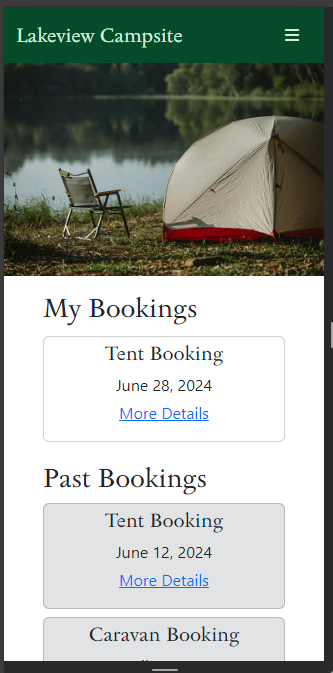
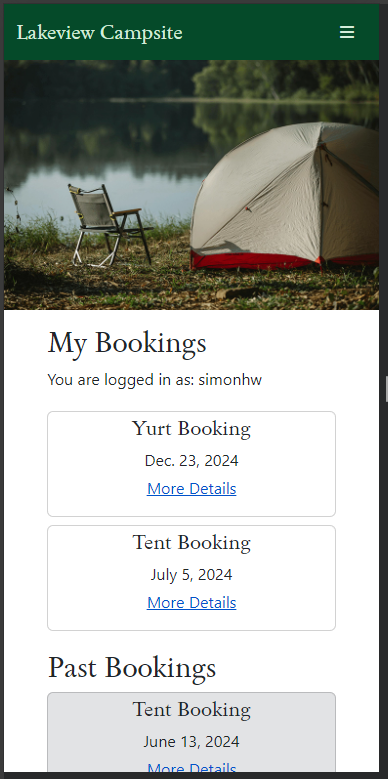
Docs: Spellcheck and proofread content of README.

diff --git a/README.md b/README.md
@@ -39,7 +39,6 @@ Deployed program on Heroku: [Lakeview Campsite](https://lakeview-campsite-8b683b
 - [Technologies Used](#technologies-used)
     - [Languages](#languages)
     - [Frameworks, Libraries, and Programs](#frameworks-libraries-and-programs)
-    - [Dependencies](#dependencies)
 - [Deployment](#deployment)
     - [Local Deployment](#local-deployment)
     - [Live Deployment](#live-deployment)
@@ -53,7 +52,7 @@ Deployed program on Heroku: [Lakeview Campsite](https://lakeview-campsite-8b683b
 
 ## User Experience
 ### Initial Discussion
-The Lakeview Campsite website facilitates bookings for small and large groups for one night or more of camping. The goal of the site is to encourage business by showcasing the campsite information and offering a user-friendly booking system to users. The website allows staff users to manage all bookings.
+The Lakeview Campsite website facilitates bookings for small and large groups for one night or more of camping. The goal of the site is to encourage business by showcasing the campsite information and offering a user-friendly booking system to users. The website allows users to manage their bookings and staff users to manage all bookings.
 
 ### Project Planning with the Agile Approach
 The Lakeview Campsite project was built using the Agile method. This involves breaking projects down into smaller manageable sections which allows teams to deliver continuous working releases to the client and end users. These release periods are known as sprints and this project had four sprints over nine weeks.
@@ -70,10 +69,10 @@ User Stories were generated and grouped under different Epics to effectively str
 Each user story was assigned a number of labels to aid in the project workflow. These include:
 
 - `Sprint 1/2/3/4` - To denote in which sprint the user story will be worked on.
-- `Story Points: 1/2/3/5/8` - To denote how much effort each user story requires.
+- `Story Points: 1/2/3` - To denote how much effort each user story requires.
 - `Must-Have` - A user story relating to a feature without which the website will not function correctly.
 - `Should-Have` - A user story relating to a feature that will complement the core website features and enhance the user experience.
-- `Could-Have` - A user story relating to a feature that be of benefit to the user but without which the site will still achieve all its design goals.
+- `Could-Have` - A user story relating to a feature that could be of benefit to the user but without which the site will still achieve all its design goals.
 - `Site User` - A user story from the perspective of a regular site user.
 - `Site Admin` - A user story from the perspective of a site administrator.
 - `documentation` - A task related to writing the README or TESTING documents.
@@ -84,20 +83,20 @@ Using the Agile method allowed this project to be managed well in small chunks. 
 
 ### User Stories
 #### Epic: Initial Project Setup
-- **Set Up Django Files**: As a **Developer** I can **set up the Django template files** so that **I can begin to write code for the project**.
+- **Set Up Django Files**: As a **Developer** I can **set up the Django template files** so that I can **begin to write code for the project**.
     - I can install the correct version of Django.
     - I can create a project called **lakeview**.
     - I can create an app called **home**.
     - I can display a "Hello world!" string on the webpage.
 
-- **Create PostgreSQL Database**: As a **Developer** I can **create a could-based database** so that **store and retrieve data for my website**.
+- **Create PostgreSQL Database**: As a **Developer** I can **create a could-based database** so that I can **store and retrieve data for my website**.
     - I can create a new PostgreSQL instance
     - I can copy the URL in the Details section
     - I can create the env.py file and set DATABASE_URL constant.
     - I can install the relevant packages for database connection.
     - I can run migrations.
 
-- **Deploy Project to Heroku**: As a **Developer** I can **deploy the project to Heroku** so that **I can see that the website displays properly**.
+- **Deploy Project to Heroku**: As a **Developer** I can **deploy the project to Heroku** so that I can **see that the website displays properly**.
     - I can create a Heroku app with a unique name.
     - I can update the code for deployment with gunicorn.
     - I can deploy the app on Heroku.
@@ -115,14 +114,14 @@ Using the Agile method allowed this project to be managed well in small chunks. 
     - I can declare the necessary imports.
     - I can create a model with the appropriate fields required.
 
-- **Move Booking Model to the Correct App**: As a **Developer** I can **successfully migrate a model from one app to another** so that I can **have all the relevant code for a desired action contained in one app**.
+- **Move Booking Model to the Correct App**: As a **Developer** I can **successfully migrate a model from one app to another** so that I can **have all the relevant code for a desired site function contained in one app**.
     - I can create the new model in the correct app.
-    - I can change all the references from old model to the new model in other files.
+    - I can change all the references from the old model to the new model in other files.
     - I can run migrations and check for any errors.
     - I can delete the old model once the Heroku app is verified to be working properly.
 
 #### Epic: User Accounts
-- **Create an Account**: As a **Site User** I can **create an account** so that **I can make bookings and leave reviews**.
+- **Create an Account**: As a **Site User** I can **create an account** so that I can **make bookings and leave reviews**.
     - When I click the sign-in button, I am prompted to make an account.
     - After registering my details, I can log in and view, create, update, or delete a booking.
     - I can log out and log back in using the password I created.
@@ -135,7 +134,7 @@ Using the Agile method allowed this project to be managed well in small chunks. 
     - I can create a header and nav bar for larger screens.
     - I can create a footer for larger screens.
 
-- **View Campsite Information**: As a **Site User** I can **view information about the campsite** so that **I can make an informed decision about making a booking**.
+- **View Campsite Information**: As a **Site User** I can **view information about the campsite** so that I can **make an informed decision about making a booking**.
     - When I visit the About page, I can read the campsite information.
     - I can view the location of the campsite.
     - I can view the size of the campsite.
@@ -164,13 +163,13 @@ Using the Agile method allowed this project to be managed well in small chunks. 
     - When editing booking details, I can change any details they wish and save the changes.
     - If the booking is less than 48 hours away, I cannot edit the booking and I am instead prompted to ring the campsite for further instruction.
 
-- **Delete a Booking**: As a **Site User** I can **cancel a booking** so that **I can manage my stay at the campsite**.
+- **Delete a Booking**: As a **Site User** I can **cancel a booking** so that I can **manage my stay at the campsite**.
     - I can navigate to my bookings page and cancel a booking.
     - If the booking is less than 48 hours away, I will not have the option to cancel and will be prompted to ring the campsite for further advice.
     - Otherwise, a modal prompt will ask me to confirm this irreversible action.
     - On successful deletion, a confirmation message will be displayed to me.
 
-- **View All Bookings**: As a **Site Admin** I can **view all bookings** so that **I can understand when people will use the campsite**.
+- **Manage All Bookings**: As a **Site Admin** I can **view and manage all bookings** so that I can **understand when and have control over how customers will use the campsite**.
     - I can view a list of all bookings and their details.
     - For a given booking, I can amend or delete it.
     - For a booking in the past, I cannot amend or delete it.
@@ -182,13 +181,13 @@ Using the Agile method allowed this project to be managed well in small chunks. 
 - As a **Developer** I can **write a README and TESTING file** so that **others can learn about my app and see the work that has gone into preparing it for final release**.
 
 ### Kanban Board
-The GitHub Projects tool was used to manage development progress for this website. The kanban board was used to separate tasks into four columns:
+The GitHub Projects tool was used to manage development progress for this website. A kanban board was used to separate tasks into four columns:
 - Todo
 - In Progress
 - Done
 - Future Features
 
-The Epics and labels discussed above were used in conjunction with the board and allowed the developer to manage their time well during development. Below is a screenshot of the final state of the kanban board. The project can be viewed on the [GitHub Projects](https://github.com/users/simonhw/projects/3/) page.
+The Epics and labels discussed above were used in conjunction with the board and allowed the developer to manage their time well during development. Below is a screenshot of the final state of the kanban board. The project can be viewed on its [GitHub Projects page](https://github.com/users/simonhw/projects/3/).
 
 ![Image of Kanban Board](static/images/readme/kanban-final.png)
 
@@ -207,9 +206,9 @@ The Sedan font was chosen from the Google Fonts library because it evoked feelin
 ### Imagery
 Images were chosen that show an attractive campsite and surroundings. Bright images showing tents near a lake and other forms of accommodation were selected to give a sense of an inclusive type of campsite. Images of people helping each other set up a tent were used for the "Need a Hand?" part of the About page. A beautiful drone/helicopter shot of a lake shore with a green landscape and mountains in the background was used in the index and About page to entice site users wishing to escape into nature for a relaxing holiday. 
 
-The header image for smaller screens was either a tent and chair by the lake's edge or a closeup of books, a mug, and flask, and a camera on the floor of a tent. The latter was used mainly for account pages and the Manage Bookings page to reflect their administrative nature. A wider image of the chair and tent was used for larger screens to make good use of the extra horizontal space.
+The header image for smaller screens was either a tent and/or chair by the lake's edge or a closeup of books, a mug, a flask, and a camera on the floor of a tent. The latter was used mainly for account pages and the Manage Bookings page to reflect their administrative nature. A wider image of the chair and tent was used for larger screens to make good use of the extra horizontal space.
 
-For the 404, 403, and 500 error pages, two different images were used. For the 403 page, an image of a diamond mesh fence was used to convey the sense of forbidden access. For the 404 and 500 error pages, an image of a worried man looking at his phone in the woods was used, to give the sense of being lost or something having gone wrong.
+For the 404, 403, and 500 error pages, two different images were used. For the 403 page, an image of a diamond mesh fence was used to convey the sense of forbidden access. For the 404 and 500 error pages, an image of a worried man looking at his phone in the woods was used to give the sense of being lost or something having gone wrong.
 
 ### Wireframes
 Wireframes were created in Balsamiq for the initial front-end design of the website. The mobile layout was designed first and the tablet and desktop were adapted from this.
@@ -267,7 +266,7 @@ A key requirement for this project was for users to be able to create, read, upd
 * Admin users may **delete** by cancelling user bookings.
 
 ### Responsiveness
-- On small screen sizes, namely mobiles, the website is displayed with content taking up most of the horizontal space, using a Bootstrap column width of 10 with an offset of 1. This allows for most of the screen to be utilised while still being visually appealing with a buffer of empty space on either side. Images used in the header were sized appropriately for the screen size to improve loading time. For larger screens, wider images were displayed while the smaller images were hidden. The navbar links are displayed in a dropdown menu typical of mobile websites which keeps the header looking neat and tidy on small screens.
+- On small screen sizes, namely mobiles, the website is displayed with content taking up most of the horizontal space, using a Bootstrap column width of 10 with an offset of 1. This allows for most of the screen to be utilised while still being visually appealing with a buffer of empty space on either side. Images used in the header were sized appropriately for the screen size to improve loading time. For larger screens, wider images were displayed while the smaller images were hidden. The navbar links are displayed in a dropdown menu typical of mobile websites which keeps the header looking neat on small screens.
 
     <details><summary>Comparison of nav bar on small and large screens</summary>
 
@@ -307,7 +306,7 @@ A key requirement for this project was for users to be able to create, read, upd
 
     </details><br>
 
-- On large screen sizes, content is generally displayed in Bootstrap columns of width 6 with an offset of 3 to direct the user's attention to the middle of their screen and avoid using the extreme edges of these wider displays. The booking form and booking cards are displayed more tightly in Bootstrap columns of 4 with an offset of 4, as this content is by nature more narrow. The Sign Out page content is centre-aligned for medium-sized screens and up so that it looks visually appealing on larger screens.
+- On large screen sizes, content is generally displayed in Bootstrap columns of width 6 with an offset of 3 to direct the user's attention to the middle of their screen and avoid using the extreme edges of these wider displays. The booking form and booking cards are displayed more tightly in Bootstrap columns of 4 with an offset of 4, as this content is by nature more narrow. The Sign Out page content is centre-aligned for medium-sized screens as it looked out of place when left-aligned in its parent div at these screen sizes.
 
     <details><summary>Booking cards on desktop screens</summary>
 
@@ -324,7 +323,7 @@ A key requirement for this project was for users to be able to create, read, upd
 
 ## Features
 The website was designed to be as simple as possible, with little to no distracting content. A mobile-first design process was undertaken from the start.
-The website is comprised of four main pages visible to the site user: a homepage, an about page, a booking form page, and a "my bookings" page (when logged in). An additional page is also visible to staff users once logged in where they can manage all bookings. Other pages visible to users include the signup page, login page, logout page, password reset page, 404 error page, 403 error page, and 500 error page.
+The website is comprised of four main pages visible to the site user: a homepage, an about page, a booking form page, and a "my bookings" page (when logged in). An additional page is also visible to staff users once logged in where they can manage all bookings. Other pages visible to users include the signup page, login page, logout page, 404 error page, 403 error page, and 500 error page.
 
 **All pages on the website have:**
 1. A favicon of a tent next to a tree with a cloud.
@@ -337,7 +336,7 @@ The website is comprised of four main pages visible to the site user: a homepage
 
     ![Website Header](static/images/readme/header-dd.png)
 
-    The header contains links to the main pages of the website, depending on the login status of the site user. 
+    The header contains links to the main pages of the website, depending on the authentication status of the site user. 
     - The website title "Lakeview Campsite" is a link which when clicked will return the user to the `index.html` page.
     - "About" brings the user to the `about.html` page.
     - "Book Now" brings the user to the `bookings.html` page.
@@ -403,21 +402,21 @@ New users who wish to make a booking must create an account to access this featu
 ![Signup Page](static/images/readme/signup-1.png)
 ![Signup Page](static/images/readme/signup-2.png)
 
-This is a default Django signup form that is provided with the framework; however, the template was amended to have a consistent style with the rest of the website and extend the custom `base.html` page.
+This is a default Django signup form that is provided with the framework; however, the template was amended to have a consistent style with the rest of the website and extends the custom `base.html` page.
 
 Upon successful account creation, a message is shown to the user confirming the action and they are returned to the previous page they were viewing.
 
 ![Signup toast message](static/images/readme/signup-toast.png)
 
 ### The Sign In Page
-The sign-in page similarly is a default Django form that has had its template styled to be consistent with the website. When returning users sign in successfully, they are shown a message to confirm their action and they are returned to the previous page they were viewing. There is also a reset password link on this page which is further discussed below.
+The sign-in page similarly is a default Django form that has had its template styled to be consistent with the website. When returning users sign in successfully, they are shown a message to confirm their action and they are returned to the previous page they were viewing. There are also instruction on how the user can reset their password on this page which is further discussed below in the [Features to be Implemented](#features-to-be-implemented) section.
 
 ![Signin Page](static/images/readme/signin.png)
 
 ![Signin toast message](static/images/readme/signin-toast.png)
 
 ### The Sign Out Page
-When users click the sign-out button in the nav bar they are directed to the `signout.html` page. Users must confirm the action by clicking the red "Sign Out" button after which they are redirected to the homepage. This is different from the previous two pages because the user could be signing out from a page that required specific authenticated access. Instead of showing the user a 403 error page, it was deemed a much better user experience to simply be returned to the homepage. A "Cancel" button allows the user to navigate back to the previous page without having to use their browser.
+When users click the sign-out button in the nav bar they are directed to the `signout.html` page. Users must confirm the action by clicking the red "Sign Out" button after which they are redirected to the homepage. This is different from the previous two pages because the user could be signing out from a page that required specific authenticated access. Instead of showing the user a 403 error page or being redirected immediately to the sign-in page, it was deemed a much better user experience to simply be returned to the homepage. A "Cancel" button allows the user to navigate back to the previous page without having to use their browser.
 
 ![Sign out page](static/images/readme/signout.png)
 
@@ -434,7 +433,7 @@ The authenticated user's username is displayed under the page's heading as a vis
 
 #### Form Fields
 - Accommodation
-    - A dropdown list of four types of accommodation is presented to the user for selection
+    - A dropdown list of four types of accommodation is presented to the user for selection.
         
         ![Accommodation dropdown list](static/images/readme/accom-dd.png)
         
@@ -443,17 +442,17 @@ The authenticated user's username is displayed under the page's heading as a vis
 
         ![Arrival date picker](static/images/readme/arrival-pick.gif)
     
-    - The minimum value for the departure date will always be the arrival date plus one day. This was achieved using custom JavaScript code explained further below.
+    - The minimum value for the departure date will always be the arrival date plus one day. This was achieved using custom JavaScript code explained in [TESTING.md](/TESTING.md).
 
         ![Departure date picker](static/images/readme/departure-picker.png)
         ![Departure date picker](static/images/readme/departure-picker-3.png)
         ![Departure date picker](static/images/readme/departure-picker-4.png)
 
 - Number of Guests
-    - The next form fields are those for the number of adults and children in the booking. These fields only accept non-negative integers; the adults field has a minimum value of one and the children field has a minimum value of zero. The maximum number of guests of either type is set to 10, to prevent the user from booking in impossibly large guest numbers. See [Features to be Implemented](#features-to-be-implemented) for more on this.
+    - The next form fields are those for the number of adults and children in the booking. These fields only accept non-negative integers; the adults field has a minimum value of one and the children field has a minimum value of zero. The maximum number of guests of either type is set to 10, to prevent the user from making a booking with impossibly large guest numbers. See [Features to be Implemented](#features-to-be-implemented) for future idea on this limitation.
 
 - Terms and Conditions
-    - The final form field is a radio button with which the user can indicate that they have accepted the Terms and Conditions listed below.
+    - The final form field is a radio button with which the user can indicate that they have accepted the Terms and Conditions listed below the form.
 
         ![Terms and Conditions radio button](static/images/readme/tac-radio.png)
 
@@ -471,7 +470,6 @@ After submission, the input data is cleared and the form is restored to its defa
 Below the form section, with a distinct white-on-green style to distinguish it from the booking form, the main points of information for making a booking are presented to the site user. These items are shown here to address the more frequently asked questions about bookings: check-in time, payments, and cancellations. The contact details for the campsite are listed here and the user is encouraged to get in touch regarding any special requests or specific questions.
 
 ![Booking information section](static/images/readme/booking-info.png)
-![Booking information section](static/images/readme/booking-info-2.png)
 
 #### Terms and Conditions
 A Bootstrap collapse component is utilised for the long list of Terms and Conditions to keep the booking page looking neat and avoid having to scroll too much to view the footer details. The user can choose to view the full list by clicking on the link as prompted.
@@ -485,7 +483,7 @@ As the list is long, another link is provided after the last list item to hide t
 ![Terms and Conditions hide link](static/images/readme/tac-hide.png)
 
 ### User Bookings
-As described above, a given logged-in user who is not a staff member may navigate to the `user_bookings.html` page and view a list of campsite bookings made by them.
+As described above, a given logged-in user who is not a staff member may navigate to the `user_bookings.html` page and view a list of campsite bookings made by them. The authenticated user's username is displayed under the "My Bookings" heading as a visual indication that they are logged in and to show under which account they are viewing bookings.
 
 ![User Bookings page](static/images/readme/my-bookings.png)
 
@@ -496,15 +494,15 @@ The bookings are separated into two sections: "My Bookings" and "Past Bookings".
 This content shows all the details that the user would have entered when making a booking: arrival date, departure date, and number of guests. When no children were booked in, this field is omitted entirely from the card.
 
 #### Editing Bookings
-The user can edit or delete bookings up until two days before the arrival date. When the edit button is clicked, the user is brought back to the booking form page. Through the use of template tags, the page checks if a booking id exists. In this case, it does as the user has clicked on the "Edit" button, calling the `booking_edit` view which populates the form with the correct data. The heading is thus changed to read "Edit Your Stay" and the submit button text is changed to "Update". This is a way of making sure the user is aware that they are editing an existing booking as opposed to making a new one.
+The user can edit or delete bookings up to two days before the arrival date. When the edit button is clicked, the user is brought back to the booking form page. Through the use of template tags, the page checks if a booking id exists. In this case it does, as the user has clicked on the "Edit" button, calling the `booking_edit` view which populates the form with the correct data. The heading is thus changed to read "Edit Your Stay" and the submit button text is changed to "Update". This is a way of making sure the user is aware that they are editing an existing booking as opposed to making a new one.
 
 ![Edit Your Stay page](static/images/readme/edit-booking.png)
 
-If the new data is valid, the user is shown a message confirming their action and is redirected to the `user_bookings.html` page.
+If the new data is valid, the user is shown a message confirming their action and is redirected to the `user_bookings.html` page. If it is not, the form does not submit and any validation errors are displayed to the user in a message.
 
 ![Edit booking toast message](static/images/readme/edit-booking-toast.png)
 
-If the booking arrival date is within the next 48 hours, the user is not able to amend the details and a modal message is displayed informing the user of this and prompting them to get in contact with the campsite staff. A modal was chosen for this feature as it forces the user to acknowledge the message and click a button labelled "Understood" before they can interact with the website again. The campsite contact phone number is linked here for the user's convenience.
+If the booking arrival date is within the next 48 hours, the user is not able to amend the details unless they are also a staff member. A modal message is displayed informing the user of this and prompts them to get in contact with the campsite staff. A modal was chosen for this feature as it forces the user to acknowledge the message and click a button labelled "Understood" before they can interact with the website again. The campsite contact phone number is linked here for the user's convenience. The email address was not included here as the campsite owners want to encourage the user to get in touch directly and deal with any issues as soon as possible.
 
 ![Edit booking denied modal](static/images/readme/edit-denied.png)
 
@@ -523,7 +521,7 @@ If the booking is successfully deleted, the user is shown a message confirming t
 
 ![Delete booking toast message](static/images/readme/delete-toast.png)
 
-As with the edit action described above, if the booking is in the next 48 hours another [modal](static/images/readme/delete-denied.png) is shown to the user explaining that it is not possible to delete the booking and action does not take place.
+As with the edit action described above, if the booking is in the next 48 hours another [modal](static/images/readme/delete-denied.png) is shown to the user explaining that it is not possible to delete the booking and action does not take place. Staff accounts do not have this limitation.
 
 #### Past Bookings
 A list of past bookings is also shown to the user on this page for ease of reference. When the "More Details" link is clicked, the details for the chosen past booking are displayed. The wording here is slightly different with the past tense of "Arrived" and "Departed" used. No edit or delete functionality is possible with these bookings.
@@ -536,7 +534,7 @@ If the user has no bookings associated with their account, paragraphs are displa
 ![No bookings paragraphs](static/images/readme/no-bookings.png)
 
 ### Managing Bookings
-For a staff user, all bookings can be managed by navigating to the `manage_bookings.html` page. Here a list of all bookings is displayed, with the booking card having a slightly different format to that seen in the `user_bookings.html` page. Each booking card has the user's name or username displayed at the top and all relevant booking details are listed below it. The same options of editing and deleting bookings are afforded to the staff user here, but the wording is changed from "Edit" to "Manage". There is currently no functionality implemented for a user to edit their account details and add their first and last names; when this is the case, their username is displayed on the card instead of their first and last name. The staff user is also not limited when choosing to manage or delete a booking that is within 48 hours.
+For a staff user, all bookings can be managed by navigating to the `manage_bookings.html` page. Here a list of all bookings is displayed along with the login status of the user, with the booking card having a slightly different format to that seen in the `user_bookings.html` page. Each booking card has the user's name or username displayed at the top and all relevant booking details are listed below it. The same options of editing and deleting bookings are afforded to the staff user here, but the wording is changed from "Edit" to "Manage". There is currently no functionality implemented for a user to edit their account details and add their first and last names; in these cases, their username is displayed on the card instead of their first and last name. There are no limitations on managing or deleting bookings within the next 48 hours for the staff user on this page.
 
 ![Manage bookings page](static/images/readme/manage-bookings.png)
 ![Manage bookings page](static/images/readme/manage-bookings-2.png)
@@ -566,10 +564,10 @@ This project has many possible features that are beyond the scope of the current
 - **Booking Images**
     - When a user selects an accommodation option in the booking form, an image of that type of accommodation is shown adjacent to the field. This would be achieved using JavaScript and adding an event listener that changes the image when the accommodation field is changed.
 - **Occupancy Limits**
-    - Limiting the number of guests per day and accomodation type would be a much sought-after feature for a client. Not all campsites would have the same sized facilities or staff support. Ideally, the user would be shown how many spaces are left for each accommodation type when they select their preferred booking dates. This could involve using a "Check Availability" button which calls a custom method that returns the number of open accommodation spaces available to the user. This would also require updating or creating new models that can hold the occupancy limits for various accommodations and services offered by the business.
-    - Currently, there is a maximum value of 10 guests set for the adults and children input fields. This is to prevent unreasonable booking in the website's current version. An intermediate step to improve this would be to show the user a modal window asking them to get in touch to discuss their booking if they wish to make a booking of more than 10 guests.
+    - Limiting the number of guests per day and accommodation type would be a much sought-after feature for a client. Not all campsites would have the same sized facilities or staff support. Ideally, the user would be shown how many spaces are left for each accommodation type when they select their preferred booking dates. This could involve using a "Check Availability" button which calls a custom method that returns the number of open accommodation spaces available to the user. This would also require updating or creating new models that can hold the occupancy limits for various accommodations and services offered by the business.
+    - Currently, there is a maximum value of 10 guests set for the adults and children input fields. This is to prevent unreasonabley-sized or malicious booking attempts in the website's current version. An intermediate step to improve this would be to show the user a modal window asking them to get in touch to discuss their booking if they wish to make a booking of more than 10 guests.
 - **Date Picker**
-    - Having a date field that shows a calendar indicating booking availability would improve the current user experience. A JavaScript library such as [flatpickr](https://flatpickr.js.org/) would be one way of implementing this feature. Writing custom JavaScript to pass available dates to flatpickr would allow it to configure the choices available to the user.
+    - Having a date field that shows a calendar indicating booking availability would improve the current user experience. Visually this would look like a calendar displayed one month at a time, with dates where bookings are not possible grayed out, dates where bookings are almost booked out in orange, and dates where there are plenty of booking slots available displayed in blue or green. A JavaScript library such as [flatpickr](https://flatpickr.js.org/) would be one way of implementing this feature. Writing custom JavaScript to pass available dates to flatpickr would allow it to configure the choices available to the user.
 - **Extra Products**
     - The extra services and packages described in the "Pricing Guide" section of `about.html` could be presented to the user as additional items they can purchase at the point of booking. This would involve updating the booking model with new fields and updating the booking form.
 - **Pricing**
@@ -581,6 +579,13 @@ This project has many possible features that are beyond the scope of the current
 - **Accepting T&Cs**
     - The Terms and Conditions are currently listed below the booking form, and the user is told that by making a booking they are accepting these terms; however, it would be better to have a checkbox that the user must click to indicate that they have read the Terms and Conditions before they can submit their booking.
 
+#### View Bookings Page
+- **Page Headings**
+    - The `UserBookings` class-based view can be split into two new views: one for upcoming bookings and one for past bookings. In this way the headings of "Upcoming Bookings" and "Past Bookings" on the page can be dynamically shown or hidden and messages displayed when the user has no bookings of either or both types. ([See Known Bug #2](/TESTING.md#known-bugs))
+
+- **Cancellation Period**
+    - The `.is_within_48h()` method can be updated to take in an argument from the user where the number of days or hours can be determined by the staff user from the front end. This update would also includes functions that dynamically edit any text content that refers to the cancellation period in other areas of the site.
+
 #### Manage Bookings Page
 - **Sort Bookings**
     - In this release, all bookings are listed and sorted by arrival date in descending order; however, in a real-world application, there could be hundreds of bookings available to view to the staff user. It would be preferable to have more control over how to sort the bookings list, e.g. view by month or by accommodation type. This may involve creating new classes in `booking/views.py` and having different buttons that the staff user can click to sort the bookings in different ways.
@@ -589,7 +594,7 @@ This project has many possible features that are beyond the scope of the current
 - **Email Functionality**
     - Integrating an email service with the website will allow users to reset their password, to be sent details of their bookings, and to receive other important messages, e.g. reminders before their arrival.
 - **Custom Sign Up Form**
-    - The sign-up form can be improved both in its formatting and content. It would be preferable to have the user enter their first and last name upon signup. The current labels and fields can display inconsistently (see [Bug #1](/TESTING.md#bugs)) and it would give a better user experience to have the sign-up form look consistent across all screen sizes.
+    - The sign-up form can be improved both in its formatting and content. It would be preferable to have the user enter their first and last name upon signup. The current labels and fields can display inconsistently (see [Known Bug #1](/TESTING.md#known-bugs)) and it would give a better user experience to have the sign-up form look consistent across all screen sizes.
 - **Edit Account Details**
     - An app to deal with user accounts will be created in a future release. It will be designed to allow users to update their details, change or update their payment methods, and delete their accounts.
 
@@ -651,7 +656,7 @@ Chrome Developer Tools - To visualise and test changes to the website code.
 
 [Pexels.com](https://www.pexels.com/) - To source images used on the website.
 
-[ScreenToGif](https://www.screentogif.com/) - To create gif files for this README.
+[ScreenToGif](https://www.screentogif.com/) - To create GIF files for this README.
 
 [Shields.io](https://shields.io/) - To add badges to this README.
 
@@ -676,7 +681,7 @@ To deploy this program locally on your device, please follow the steps below:
 
 #### Cloning
 1. Log in or sign up to GitHub.
-2. Navigate to the repository for [akeview Campsite](https://github.com/simonhw/campsite-bookings).
+2. Navigate to the repository for [Lakeview Campsite](https://github.com/simonhw/campsite-bookings).
 3. Click on the green Code button, select your preferred option of HTTPS, SSH, or GitHub CLI, and copy the relevant link.
 4. Open the terminal in your IDE and navigate to your directory of choice for this new clone.
 5. Type `git clone` into the terminal and paste in your copied link. Press enter.
@@ -684,7 +689,7 @@ To deploy this program locally on your device, please follow the steps below:
 #### Set Up Your Environment
 1. In your IDE, navigate to the root directory and run the command `pip3 install -r requirements.txt`. All the necessary packages should now be installed in your workspace.
 2. Run the command `python3 manage.py runserver` in your terminal and open the hosted site in your browser.
-3. Add the web address to the list of allowed hosts in the `setings.py` file and hard reload your browser. The website should display properly.
+3. Add the web address to the list of allowed hosts in the `settings.py` file and hard reload your browser. The website should display properly.
 4. If it does not, set Debug to True and check for error messages in the webpage displayed.
 
 #### Creating the Database
@@ -693,13 +698,13 @@ To deploy this program locally on your device, please follow the steps below:
 3. Create an `env.py` file in your IDE root directory and confirm that it is listed in the `.gitignore` file.
 4. Create a secret key yourself or by using a website of your choice such as [Secret Key Generator](https://secretkeygen.vercel.app/).
 5. Add the following code to your `env.py` file making sure to replace `enter-copied-url-here` with the URL you copied in step 2 and `your-secret-key` with the one you generated in step 4:
-    - ```
+    ```
       import os
 
       os.environ.setdefault(
           "DATABASE_URL", "<enter-copied-url-here>")
       os.environ.setdefault("SECRET_KEY", "<your-secret-key>")
-      ```
+    ```
 6. Run the following command in your IDE terminal to create your database tables: `python3 manage.py migrate`.
 7. Create a superuser account by running `python3 manage.py createsuperuser` and enter details as prompted.
 
@@ -741,7 +746,7 @@ Images were resized and cropped where necessary.
 
 ### Code Used
 **All code in this project was written entirely by Simon Henleywillis unless otherwise specified below.**
-Various Bootstrap classes and components were used in the styling of this website and were learned about from reading the Boostraps documentation. Chunks of code that were copied or adapted are specifically credited below.
+Various Bootstrap classes and components were used in the styling of this website and were learned about from reading the Bootstrap documentation. Chunks of code that were copied or adapted are specifically credited below.
 
 Code to validate the booking form by using the `clean` method was used from the Django documentation:
 - [Cleaning and validating fields that depend on each other](https://docs.djangoproject.com/en/5.0/ref/forms/validation/#cleaning-and-validating-fields-that-depend-on-each-other)
@@ -752,7 +757,7 @@ The code used to redirect a user to the previous page they were viewing was foun
 The UserBookings view was secured against unauthorised access by using `LoginRequiredMixin` which was found on a Stack Overflow post:
 - [Django: do not allow users to see pages when they are not logged in](https://stackoverflow.com/questions/24619629/django-do-not-allow-users-to-see-pages-when-they-are-not-logged-in)
 
-Some code used in the `booking_edit` view was taken or adapted from a post on the website "Python Tutorial":
+Some code used in the `booking_edit` view was taken and adapted from a post on the website "Python Tutorial":
 - [Django Edit Form](https://www.pythontutorial.net/django-tutorial/django-edit-form/)
 
 The code used to show a carousel of images on the About page was taken from the Bootstrap documentation:
